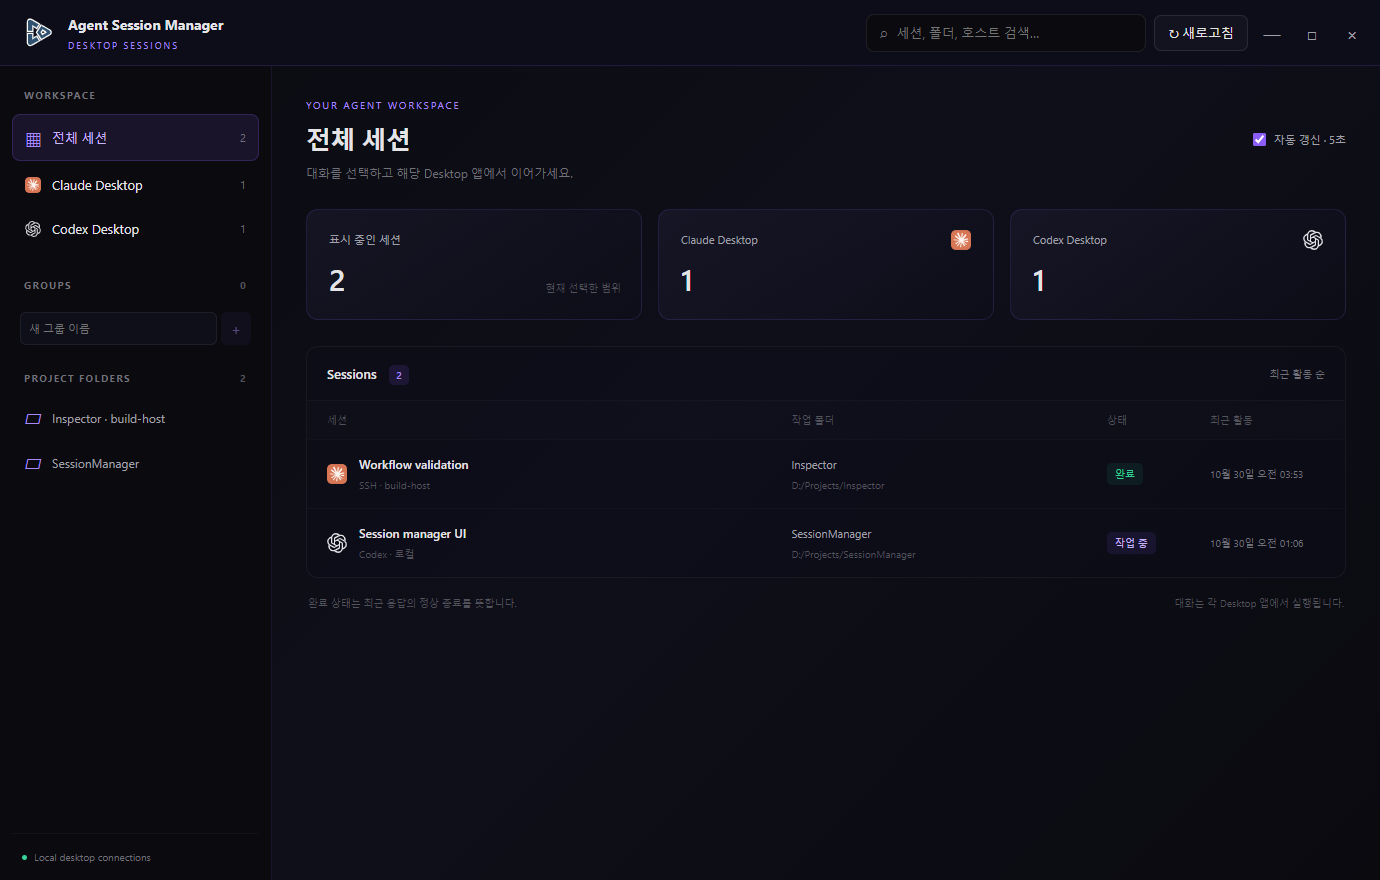
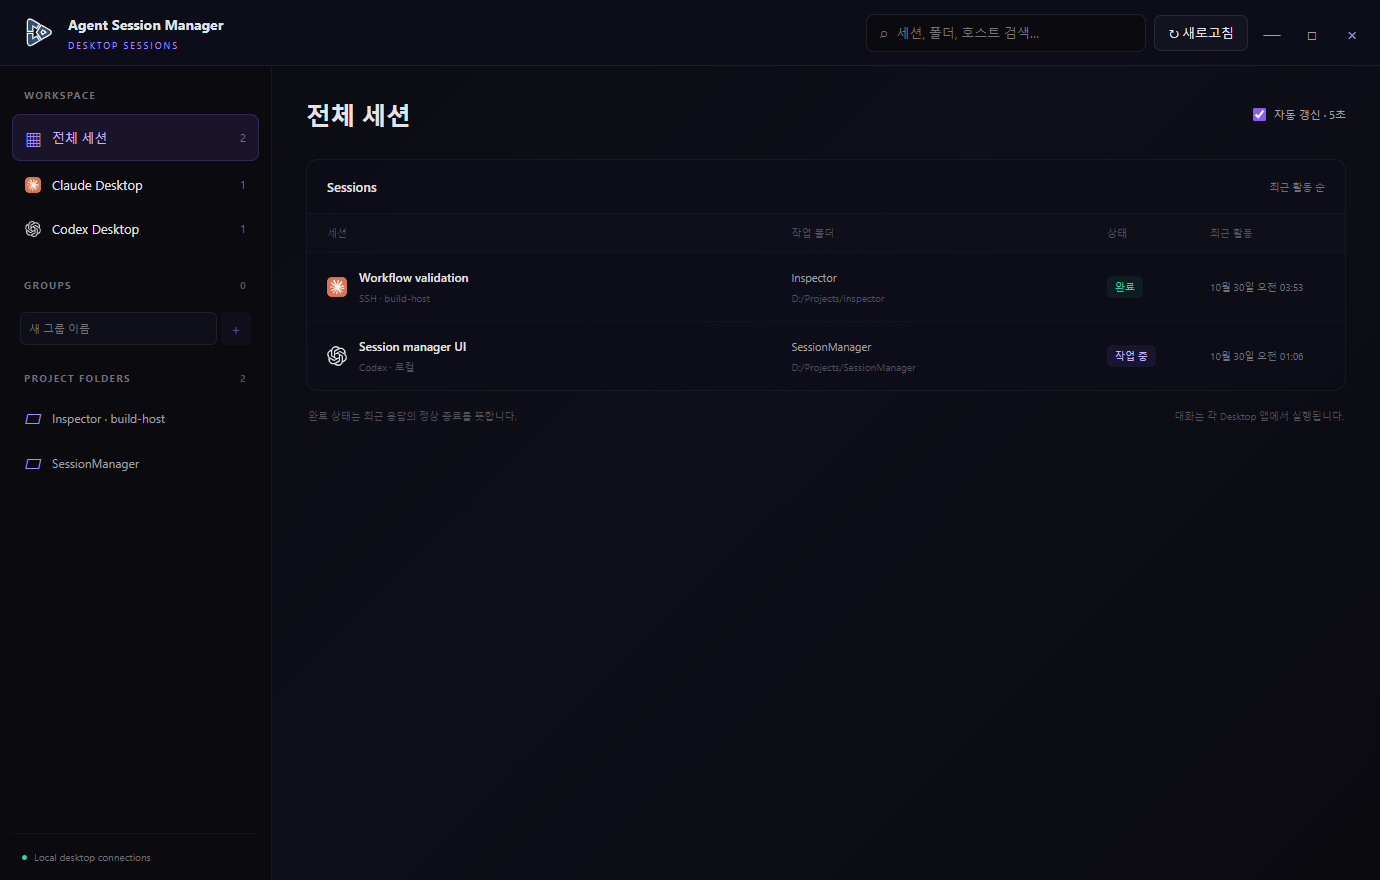
ui: remove redundant Desktop workspace summaries

diff --git a/frontend/src/DesktopApp.svelte b/frontend/src/DesktopApp.svelte
@@ -155,7 +155,7 @@
     </aside>
 
     <main>
-      <div class="main-heading"><div><div class="eyebrow">YOUR AGENT WORKSPACE</div><h1>{scopeTitle}</h1><p>대화를 선택하고 해당 Desktop 앱에서 이어가세요.</p></div><label class="auto-refresh"><input type="checkbox" bind:checked={autoRefresh} /> 자동 갱신 · 5초</label></div>
+      <div class="main-heading"><h1>{scopeTitle}</h1><label class="auto-refresh"><input type="checkbox" bind:checked={autoRefresh} /> 자동 갱신 · 5초</label></div>
       {#if error}<div role="alert" class="banner error">{error}</div>{/if}
       {#if refreshError}<div role="alert" class="banner error">{refreshError}</div>{/if}
       {#each Object.values(activityErrors).filter(Boolean) as activityError}<div role="alert" class="banner error">{activityError}</div>{/each}
@@ -189,13 +189,8 @@
           <div class="membership">{#each groups.filter(g => contains(g, selected)) as group}<button title="이 그룹에서 제외" disabled={groupBusy || !!groupError} on:click={() => groupAction('remove-member', { id: group.id, key: selected.key })}>{group.name} ×</button>{/each}</div>
         </section>
       {:else}
-        <div class="summary-cards">
-          <div class="summary-card"><span>표시 중인 세션</span><strong>{visible.length}</strong><small>{query ? '검색 결과' : '현재 선택한 범위'}</small></div>
-          <div class="summary-card"><AgentIcon agent="claude" size="md" /><span>Claude Desktop</span><strong>{visible.filter(s => s.provider === 'claude').length}</strong></div>
-          <div class="summary-card"><AgentIcon agent="codex" size="md" /><span>Codex Desktop</span><strong>{visible.filter(s => s.provider === 'codex').length}</strong></div>
-        </div>
         <section class="session-panel">
-          <div class="panel-heading"><h2>Sessions <span>{visible.length}</span></h2><span>최근 활동 순</span></div>
+          <div class="panel-heading"><h2>Sessions</h2><span>최근 활동 순</span></div>
           {#if loading && !sessions.length}<div class="empty">Desktop 세션을 가져오는 중입니다…</div>
           {:else if !visible.length}<div class="empty">표시할 세션이 없습니다.{#if query}<button on:click={() => query = ''}>검색 지우기</button>{/if}</div>
           {:else}
@@ -228,9 +223,8 @@
   .nav-row { display:flex; align-items:center; gap:11px; width:100%; padding:11px 12px; text-align:left; border:1px solid transparent; border-radius:8px; background:none; margin-bottom:3px; } .nav-row:hover { background:#ffffff05; } .nav-row.active { background:rgba(var(--accent-rgb),.12); color:var(--accent-lighter); border-color:rgba(var(--accent-rgb),.22); } .nav-row > span:nth-child(2) { flex:1; min-width:0; overflow:hidden; text-overflow:ellipsis; white-space:nowrap; } .nav-row small { color:#71717a; font-size:11px; } .grid-icon,.folder-icon { width:16px; color:var(--accent-light); font-size:17px; } .path-row { color:#a1a1aa; padding-top:8px; padding-bottom:8px; font-size:12px; }
   .new-group { display:flex; margin:8px 8px 0; gap:4px; } .new-group input { width:100%; border:1px solid #ffffff10; border-radius:6px; background:var(--bg-sunken); padding:8px; font-size:11px; } .new-group button { background:rgba(var(--accent-rgb),.12); border:0; border-radius:6px; color:var(--accent-light); width:30px; flex-shrink:0; } .projects { margin-bottom:24px; } summary { cursor:pointer; } .sidebar-footer { margin-top:auto; padding:16px 10px 4px; border-top:1px solid #ffffff0a; color:#71717a; font-size:10px; display:flex; align-items:center; gap:7px; } .connection-dot { width:5px; height:5px; border-radius:50%; background:#34d399; }
   .group-tools { display:flex; gap:8px; margin-bottom:18px; } .group-tools input { background:var(--bg-raised); border:1px solid #ffffff18; padding:8px 12px; border-radius:7px; } .group-tools button,.warning button { background:#ffffff06; border:1px solid #ffffff18; padding:8px 12px; border-radius:7px; } .warning button { margin:8px 0 0 8px; }
-  main { flex:1; min-width:0; overflow-y:auto; padding:32px 34px 16px; } .main-heading { display:flex; justify-content:space-between; gap:16px; align-items:center; margin-bottom:28px; } .eyebrow { font-size:10px; letter-spacing:1.8px; color:var(--accent-light); margin-bottom:10px; } h1 { font-size:25px; font-weight:650; letter-spacing:-.5px; margin:0; } .main-heading p { color:#71717a; margin-top:10px; font-size:12px; } .auto-refresh { display:flex; align-items:center; gap:8px; color:#a1a1aa; font-size:11px; white-space:nowrap; } input[type=checkbox] { accent-color:var(--accent); }
-  .summary-cards { display:grid; grid-template-columns:repeat(3,1fr); gap:16px; margin-bottom:26px; } .summary-card { position:relative; padding:20px 22px; border:1px solid rgba(var(--accent-rgb),.15); border-radius:12px; background:linear-gradient(145deg,rgba(var(--bg-raised-rgb),.6),rgba(var(--bg-base-rgb),.5)); } .summary-card > span { color:#a1a1aa; font-size:11px; } .summary-card :global(.agent-icon) { float:right; } .summary-card strong { display:block; font-size:30px; font-weight:600; margin-top:12px; } .summary-card small { position:absolute; right:20px; bottom:24px; color:#52525b; font-size:10px; }
-  .session-panel { border:1px solid #ffffff0c; border-radius:12px; overflow:hidden; background:rgba(var(--bg-base-rgb),.42); } .panel-heading { display:flex; justify-content:space-between; align-items:center; padding:18px 20px; border-bottom:1px solid #ffffff0a; } .panel-heading h2 { font-size:13px; font-weight:600; } .panel-heading h2 span { margin-left:9px; padding:3px 7px; background:rgba(var(--accent-rgb),.13); border-radius:5px; color:var(--accent-light); font-size:10px; } .panel-heading > span { font-size:10px; color:#71717a; }
+  main { flex:1; min-width:0; overflow-y:auto; padding:32px 34px 16px; } .main-heading { display:flex; justify-content:space-between; gap:16px; align-items:center; margin-bottom:28px; } h1 { font-size:25px; font-weight:650; letter-spacing:-.5px; margin:0; } .auto-refresh { display:flex; align-items:center; gap:8px; color:#a1a1aa; font-size:11px; white-space:nowrap; } input[type=checkbox] { accent-color:var(--accent); }
+  .session-panel { border:1px solid #ffffff0c; border-radius:12px; overflow:hidden; background:rgba(var(--bg-base-rgb),.42); } .panel-heading { display:flex; justify-content:space-between; align-items:center; padding:18px 20px; border-bottom:1px solid #ffffff0a; } .panel-heading h2 { font-size:13px; font-weight:600; } .panel-heading > span { font-size:10px; color:#71717a; }
   .table-heading,.session-row { display:grid; grid-template-columns:minmax(210px,1.5fr) minmax(130px,1fr) 85px 115px; gap:18px; align-items:center; } .table-heading { padding:12px 20px; color:#52525b; font-size:10px; background:#ffffff02; } .session-row { width:100%; background:none; border:0; border-top:1px solid #ffffff06; text-align:left; padding:16px 20px; } .session-row:hover { background:rgba(var(--accent-rgb),.07); } .session-title { min-width:0; display:flex; align-items:center; gap:12px; } .session-title > span { min-width:0; } .session-title strong { display:block; font-size:12px; font-weight:500; white-space:nowrap; overflow:hidden; text-overflow:ellipsis; } .session-title small,.session-path small { display:block; color:#52525b; font-size:10px; margin-top:6px; white-space:nowrap; overflow:hidden; text-overflow:ellipsis; } .session-path { min-width:0; color:#a1a1aa; font-size:11px; overflow:hidden; text-overflow:ellipsis; white-space:nowrap; } time { font-size:10px; color:#71717a; }
   .badge { display:inline-flex; justify-content:center; width:fit-content; gap:5px; font-size:10px; padding:4px 8px; border-radius:5px; background:#ffffff06; color:#71717a; white-space:nowrap; } .badge.working { background:#8b5cf61a; color:#c4b5fd; } .badge.completed { background:#10b98118; color:#34d399; } .badge.interrupted { background:#f59e0b18; color:#fbbf24; } .badge.idle { color:#a1a1aa; } .badge.error,.badge.refused { color:#fca5a5; background:#ef444418; }
   .banner { padding:12px 16px; border-radius:8px; margin-bottom:18px; font-size:12px; white-space:pre-wrap; overflow-wrap:anywhere; } .banner.error { background:#ef444413; border:1px solid #ef44442c; color:#fca5a5; } .banner.success { background:#10b98112; border:1px solid #10b98125; color:#6ee7b7; } .banner.warning { color:#fbbf24; background:#f59e0b0c; border:1px solid #f59e0b20; } .warning p { margin-top:8px; font-size:11px; }

diff --git a/docs/ai/tasks/workspace-list-cleanup/HANDOFF.md b/docs/ai/tasks/workspace-list-cleanup/HANDOFF.md
@@ -1,0 +1,31 @@
+# WORKSPACE 세션 목록 상단 정리
+
+- 날짜: 2026-10-30 (Asia/Seoul)
+- 상태: 구현·검증·Windows 빌드 완료
+- 스킬: software-change-workflow, verify-triage (테스트 서버 시작 제한 진단)
+- 실제 대상: `D:/repos/intellian/Session_Manager_Desktop`의 Desktop Session Manager.
+- 요청: workspace 선택 시 Sessions 목록 위의 세션 개수 등 불필요한 텍스트 제거.
+- 범위: `frontend/src/DesktopApp.svelte`의 표시 요소와 해당 CSS만 수정.
+
+## 완료
+
+- 표시 중인 세션·Claude·Codex 개수 카드 3개를 제거했다.
+- YOUR AGENT WORKSPACE와 Desktop 앱에서 이어가라는 안내를 제거했다.
+- Sessions 제목 옆의 중복 개수 배지를 제거했다.
+- 현재 선택한 화면 제목, 자동 갱신, 검색, 목록, 그룹 기능 및 오류 표시는 유지했다.
+- 더 이상 사용하지 않는 카드·안내 문구 CSS를 제거했다.
+- 이전 폴더 `Session_Manager`에 잘못 적용했던 GUI/README 변경과 완료 기록을 되돌렸다. 해당 폴더에 `AGENTS.md`를 추가해 Desktop 앱의 실제 경로와 이전 Tk GUI를 구분했다.
+
+## 검증
+
+- `npm run check`: 오류 0, 기존 경고 111개 / 29개 파일. DesktopApp.svelte 관련 오류·경고 없음.
+- `scripts/build-desktop.ps1`: 통과. `desktop/build/bin/desktop-session-manager.exe` 갱신.
+- Desktop 브라우저 테스트: 9개 통과. 검색/필터, 그룹 편집, 열기 및 오류, 상태 갱신, 상태 만료, 최소 크기 검증 포함.
+- 최초 브라우저 테스트는 개발 서버 준비 전 30초 제한으로 종료했다. 서버를 별도로 시작하고 무시되는 `frontend/test-results/workspace-cleanup.config.mjs`에서 기존 테스트 설정의 webServer만 제외해 동일 테스트 9개를 실행했다. 제품 소스와 영구 설정을 바꿔 타임아웃을 우회하지 않았다.
+- `verification/desktop-ui-preview.png`와 `desktop-ui-minimum.png`를 갱신하고 기본 크기 화면을 시각적으로 확인했다. 모의 데이터 기반 브라우저 검증이다.
+- `git diff --check`: 통과.
+
+## 적용
+
+- 바탕화면 바로가기의 실행 파일을 빌드했다. 실행 중인 앱에는 다시 열어야 적용된다.
+- 실제 Claude/Codex 대화 열기는 이번 UI 정리 검증에서 요청하지 않았다.
